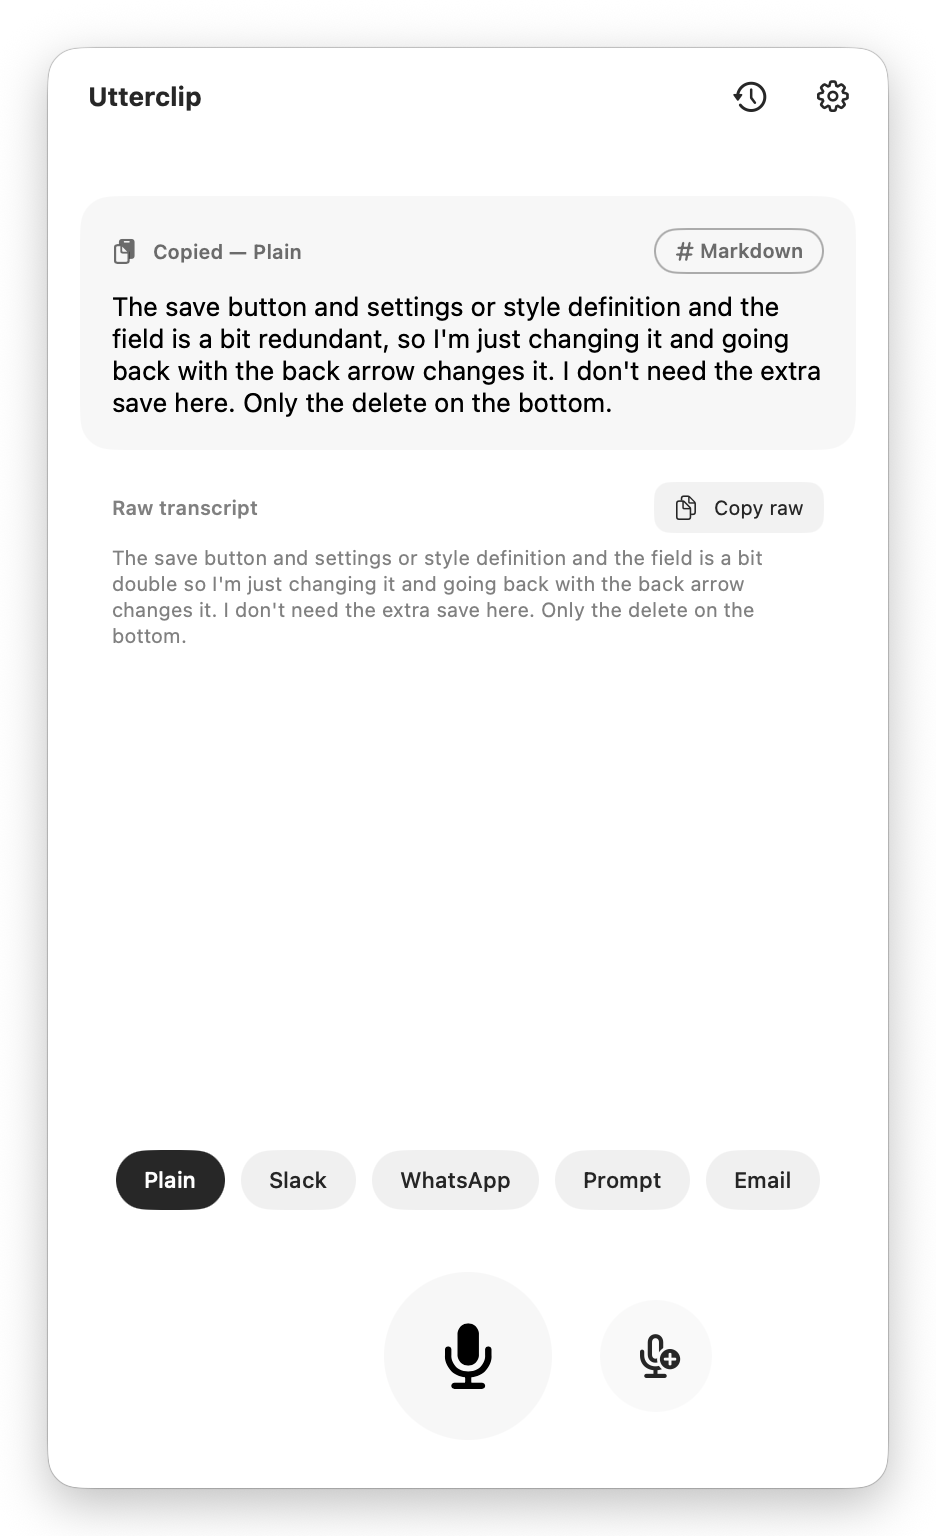
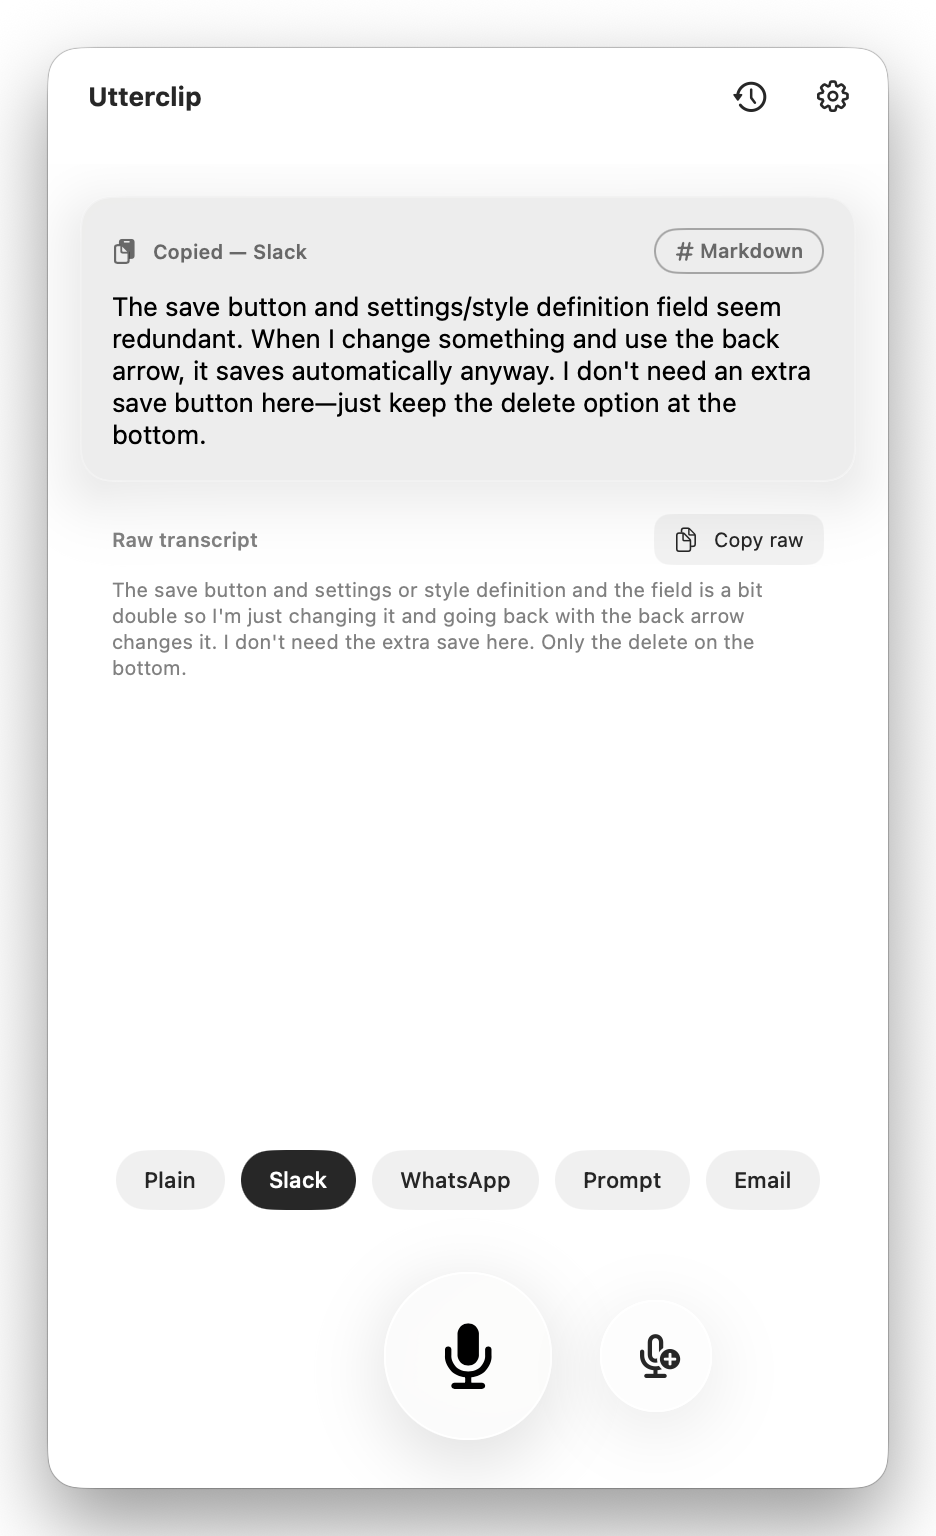
Hover tint behind the text, not over it; Mac result screenshot in Slack
The 6 % tint used to be an overlay and dulled the text while hovering. It
is now a background, inside the glass card so it sits between glass and
text. README result screenshot re-captured with the Slack style.

Changed region(s): [[0.1239, 0.1875, 0.8675, 0.4375], [0.062, 0.9688, 0.9295, 1.0], [0.1239, 0.75, 0.4028, 0.8125]]

diff --git a/Utterclip/Views/ContentView.swift b/Utterclip/Views/ContentView.swift
@@ -254,11 +254,12 @@ struct ContentView: View {
             }
             .padding()
             .frame(maxWidth: .infinity, alignment: .leading)
-            .glassBackground(shape: RoundedRectangle(cornerRadius: 16))
             // The card itself is the edit affordance; selecting text happens in the editor.
+            // Applied inside the glass so the hover tint sits between glass and text.
             .tapToEdit("Edit formatted text", shape: RoundedRectangle(cornerRadius: 16)) {
                 editTarget = .styled
             }
+            .glassBackground(shape: RoundedRectangle(cornerRadius: 16))
         }
 
         if viewModel.rewriteNeedsKey, viewModel.phase == .done {

diff --git a/Utterclip/Views/Platform.swift b/Utterclip/Views/Platform.swift
@@ -234,11 +234,9 @@ struct TapToEdit<S: Shape>: ViewModifier {
 
     func body(content: Content) -> some View {
         content
+            // Behind the content, not over it: a tint on top of the text dulls it.
+            .background(shape.fill(.primary.opacity(hovering ? 0.06 : 0)))
             .contentShape(shape)
-            .overlay {
-                shape.fill(.primary.opacity(hovering ? 0.06 : 0))
-                    .allowsHitTesting(false)
-            }
             .onTapGesture(perform: action)
             #if os(macOS)
             .onHover { inside in
